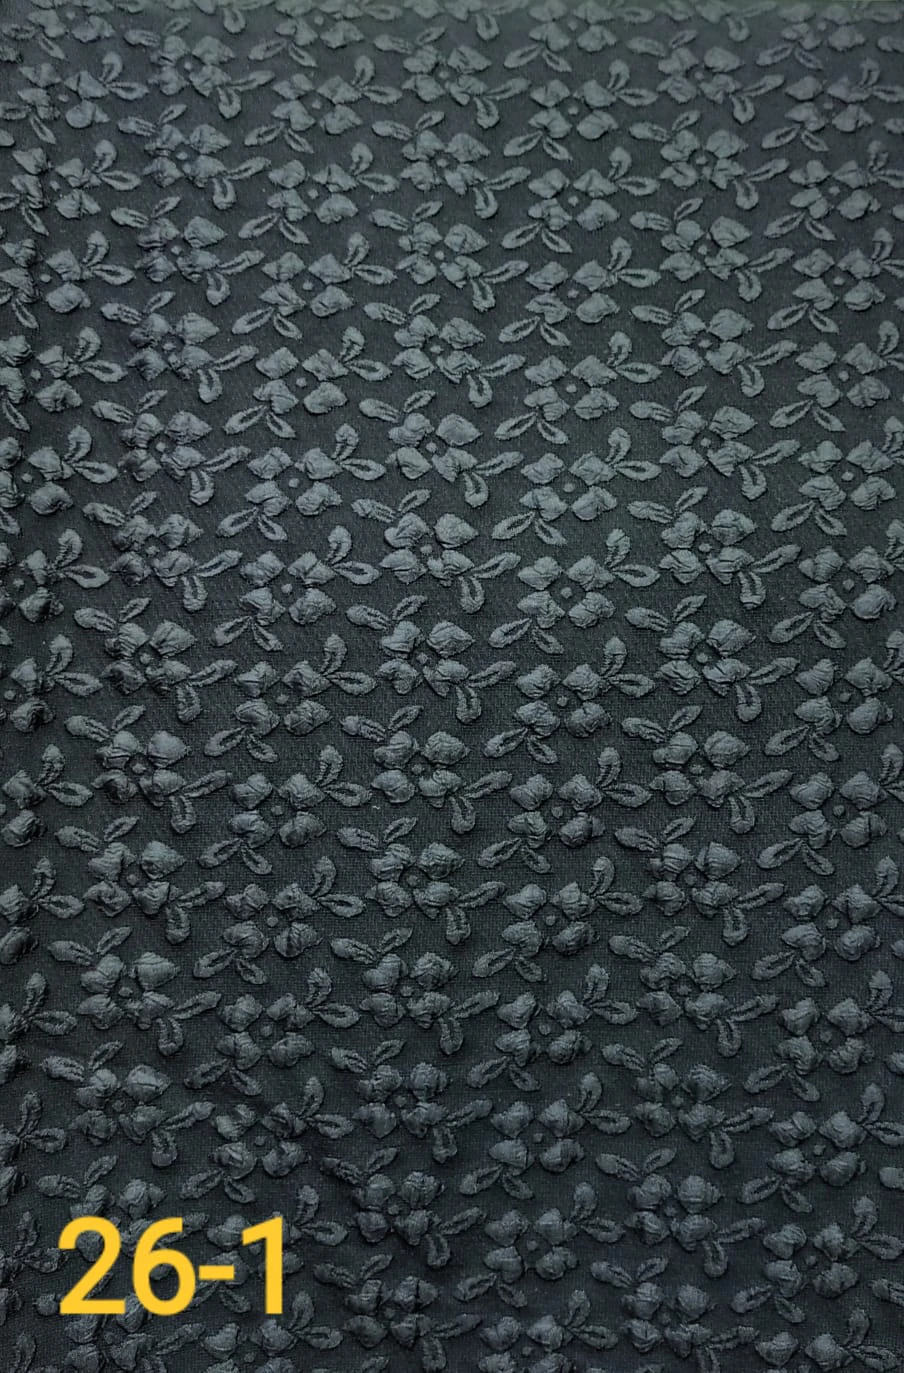
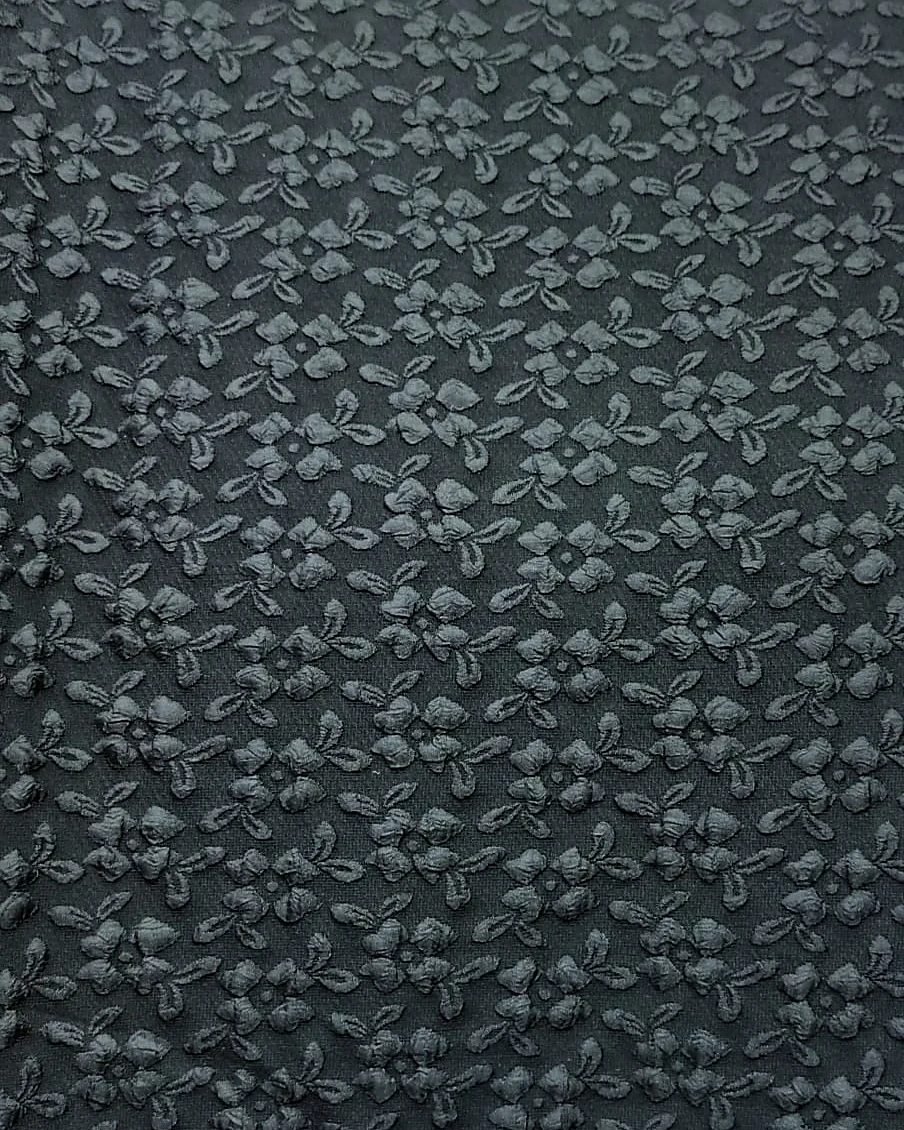
Фото: кадрирование 4:5 без надписей

diff --git a/index.html b/index.html
@@ -14,7 +14,7 @@
   <link rel="preconnect" href="https://fonts.googleapis.com">
   <link rel="preconnect" href="https://fonts.gstatic.com" crossorigin>
   <link href="https://fonts.googleapis.com/css2?family=Unbounded:wght@500;600&family=Manrope:wght@500;600;700&display=swap" rel="stylesheet">
-  <link rel="stylesheet" href="style.css?v=13">
+  <link rel="stylesheet" href="style.css?v=14">
 </head>
 <body>
   <header class="nav">
@@ -73,7 +73,7 @@
     <symbol id="pin" viewBox="0 0 24 24"><path fill="currentColor" d="M12 2a7 7 0 0 0-7 7c0 5.2 7 13 7 13s7-7.8 7-13a7 7 0 0 0-7-7Zm0 9.5a2.5 2.5 0 1 1 0-5 2.5 2.5 0 0 1 0 5Z"/></symbol>
   </svg>
 
-  <script src="products.js?v=13"></script>
-  <script src="app.js?v=13"></script>
+  <script src="products.js?v=14"></script>
+  <script src="app.js?v=14"></script>
 </body>
 </html>
